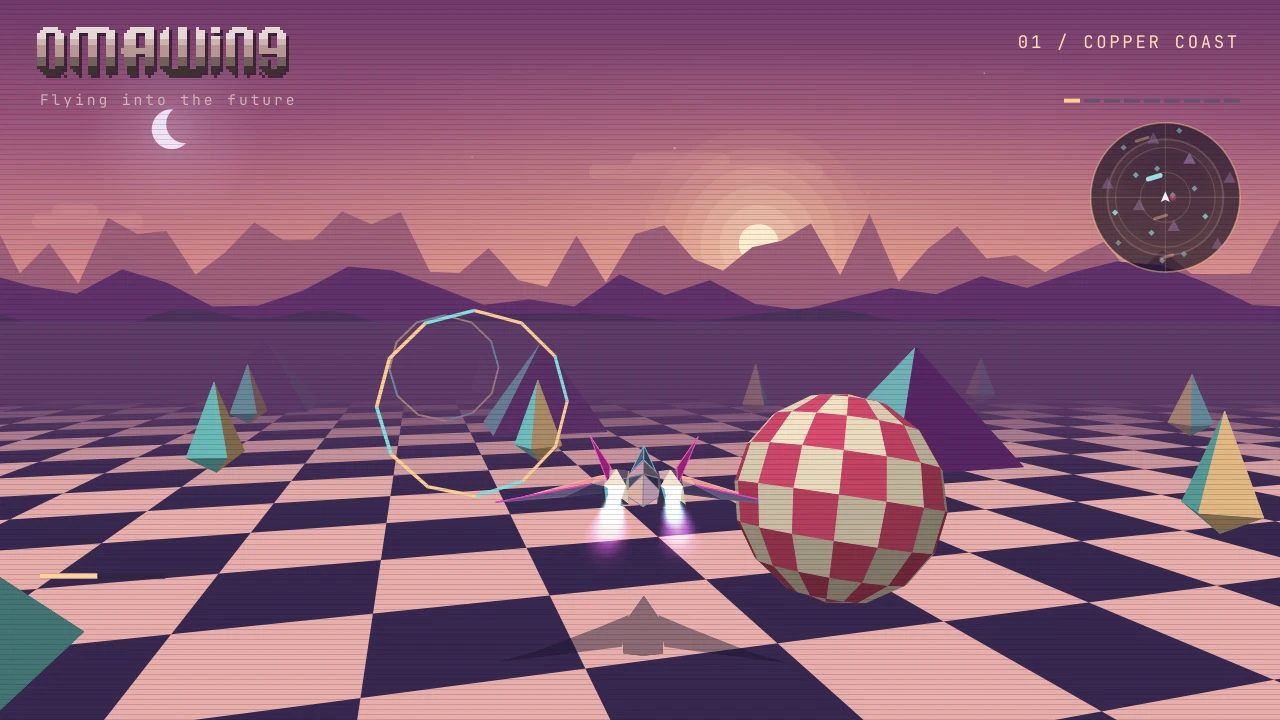
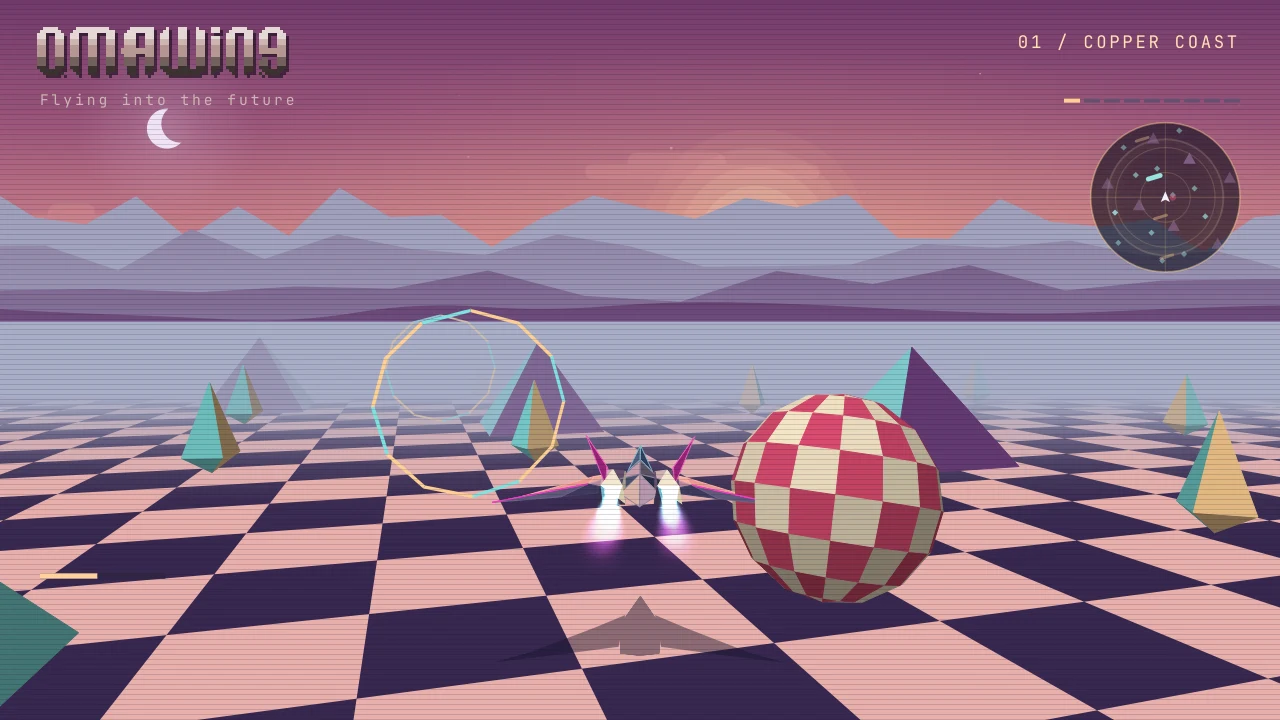
Add layered blue mountain haze and atmospheric depth

diff --git a/src/sky.cpp b/src/sky.cpp
@@ -138,21 +138,21 @@ void Sky::paint(QPainter &p, const View &view) {
     // only the light squares are drawn as polygons over it.
     if (split < view.height) {
         QLinearGradient ground(0, split, 0, view.height);
-        ground.setColorAt(0, rgb(view.palette.floor));
+        ground.setColorAt(0, rgb(view.atmosphere()));
         for (double d = View::Far; d >= 3; d *= 0.8) {
             const Vec c = view.toCamera({view.camera.x + std::sin(view.camera.yaw) * d, 0, view.camera.z + std::cos(view.camera.yaw) * d});
             if (c[2] <= View::Near)
                 continue;
             const double y = view.project(c).y();
             if (y > split && y < view.height)
-                ground.setColorAt((y - split) / (view.height - split), rgb(blend(view.palette.tileB, view.palette.floor, view.fog(c[2]))));
+                ground.setColorAt((y - split) / (view.height - split), rgb(blend(view.palette.tileB, view.atmosphere(), view.fog(c[2]))));
         }
         ground.setColorAt(1, rgb(view.palette.tileB));
         p.fillRect(QRectF(0, split, W, view.height - split), ground);
     }
 }
 
-// Clouds and three ranges of hills, each sliding at its own speed: the
+// Clouds and four ranges of hills, each sliding at its own speed: the
 // nearer a layer, the further it moves when the camera turns or drifts
 // sideways. Each layer wraps once per full turn.
 void Sky::paintBackdrop(QPainter &p, const View &view, double horizon) {
@@ -208,28 +208,32 @@ void Sky::paintBackdrop(QPainter &p, const View &view, double horizon) {
     }
 
     struct Ridge {
-        double turn, slide, sink, spacing, low, high;
+        double turn, slide, sink, spacing, low, high, haze;
         bool rounded;
     };
     static const Ridge ridges[] = {
-        {1.0, 0.4, 0.15, 22, 26, 86, false},   // Far mountains, nearly at infinity.
-        {1.8, 2.2, 0.7, 34, 14, 52, false},
-        {3.0, 6, 1.8, 54, 6, 28, true},        // Rolling hills close by.
+        {1.0, 0.18, 0.08, 38, 48, 115, 0.86, false}, // Distant pale-blue peaks.
+        {1.15, 0.75, 0.3, 55, 32, 82, 0.65, false},
+        {1.35, 2.1, 0.8, 72, 16, 52, 0.36, false},
+        {1.65, 4.2, 1.4, 94, 8, 29, 0.10, true},   // Dark, broad foothills.
     };
-    const Vec colors[] = {blend(blend(view.palette.floor, view.palette.mid, 0.5), view.palette.horizon, 0.45),
-                          blend(view.palette.floor, view.palette.mid, 0.5), blend(view.palette.floor, view.palette.tileB, 0.5)};
-    for (int layer = 0; layer < 3; ++layer) {
+    const Vec rock = blend(view.palette.floor, view.palette.mid, 0.3);
+    const Vec air = view.atmosphere();
+    for (int layer = 0; layer < 4; ++layer) {
         const Ridge &r = ridges[layer];
         const double period = 2 * M_PI * View::Focal * r.turn;
         const int count = std::max(8, int(std::lround(period / r.spacing)));
         const double step = period / count;
         const double scroll = view.camera.yaw * View::Focal * r.turn + view.camera.drift * r.slide;
-        // Flying higher lets the nearer hills sink below the horizon.
+        // Flying higher reveals the valleys. Near hills move more quickly
+        // across the view, while the remote peaks barely shift sideways.
         const double base = horizon + std::max(0.0, view.camera.y - 2) * r.sink;
         const int first = int(std::floor(scroll / step)) - 1, points = int(std::ceil(W / step)) + 3;
         auto peak = [&](int g) {
             const int index = ((g % count) + count) % count;
-            return QPointF(g * step - scroll, base - mix(r.low, r.high, hash(index, 60 + layer)));
+            // Broad shoulders break up the repeated triangular silhouette.
+            const double shape = 0.65 * hash(index, 60 + layer) + 0.35 * hash(index / 3, 80 + layer);
+            return QPointF(g * step - scroll, base - mix(r.low, r.high, shape));
         };
         QPainterPath path(QPointF(first * step - scroll, base + 40));
         path.lineTo(peak(first));
@@ -244,6 +248,11 @@ void Sky::paintBackdrop(QPainter &p, const View &view, double horizon) {
         }
         path.lineTo((first + points) * step - scroll, base + 40);
         path.closeSubpath();
-        p.fillPath(path, rgb(colors[layer]));
+        // Haze pools in each valley, separating overlapping silhouettes.
+        // Far ridges lose contrast and saturation, not just opacity.
+        QLinearGradient mist(0, base - r.high, 0, base);
+        mist.setColorAt(0, rgb(blend(rock, air, r.haze)));
+        mist.setColorAt(1, rgb(blend(rock, air, std::min(0.97, r.haze + 0.18))));
+        p.fillPath(path, mist);
     }
 }

diff --git a/src/worldlayer.cpp b/src/worldlayer.cpp
@@ -79,8 +79,9 @@ void WorldLayer::mesh(const Mesh &geometry, const Vec &at, const Vec &rotation, 
         depth /= indices.size();
         const Vec &source = colors[i % colors.size()];
         const double brightness = options.emissive ? 1 : mix(0.5 + 0.5 * std::max(0.0, dot(n, light())), 1, options.lift);
-        const QColor fill = options.wire ? QColor() : rgb(blend(scaled(source, brightness), m_view->palette.floor, m_view->fog(depth)));
-        const QColor stroke = options.wire ? rgb(blend(source, m_view->palette.floor, m_view->fog(depth)))
+        const double haze = options.ship || options.glow ? 0 : m_view->fog(depth);
+        const QColor fill = options.wire ? QColor() : rgb(blend(scaled(source, brightness), m_view->atmosphere(), haze));
+        const QColor stroke = options.wire ? rgb(blend(source, m_view->atmosphere(), haze))
                             : options.glow ? QColor()
                             : options.stroke.isValid() ? options.stroke : fill;
         face(points, fill, stroke, options.opacity, options.ship, options.glow);
@@ -104,7 +105,7 @@ void WorldLayer::ring(const Ring &r, double spin) {
         double depth = 0;
         for (const Vec &p : points)
             depth += p[2] / 4;
-        face(points, rgb(blend(i % 3 ? m_view->palette.accent : m_view->palette.crystal, m_view->palette.floor, m_view->fog(depth))), QColor(),
+        face(points, rgb(blend(i % 3 ? m_view->palette.accent : m_view->palette.crystal, m_view->atmosphere(), m_view->fog(depth))), QColor(),
              opacity, false);
     }
 }

diff --git a/src/ground.cpp b/src/ground.cpp
@@ -55,7 +55,7 @@ void Ground::paint(QPainter &p, const View &view) {
     for (int i = 0; i < FogSteps; ++i) {
         const double haze = (i + 0.5) / FogSteps;
         p.setPen(Qt::NoPen);
-        p.setBrush(rgb(blend(view.palette.tileA, view.palette.floor, haze)));
+        p.setBrush(rgb(blend(view.palette.tileA, view.atmosphere(), haze)));
         for (const QPolygonF &polygon : tiles[i]) p.drawConvexPolygon(polygon);
     }
     const QPen linePen(rgb(blend(view.palette.accent, view.palette.tileA, 0.4)), 0.55);

diff --git a/src/view.cpp b/src/view.cpp
@@ -158,3 +158,9 @@ QPolygonF View::polygonOf(const std::vector<Vec> &points) const {
 }
 
 double View::fog(double depth) const { return smooth(clampTo((depth - 35) / (Far - 35), 0, 1)); }
+
+Vec View::atmosphere() const {
+    // Keep a trace of each act's sky, but scattered blue light dominates
+    // in the distance. This also blends smoothly during scene transitions.
+    return blend(palette.horizon, draw::hex("#8ab9e2"), 0.68);
+}

diff --git a/src/view.h b/src/view.h
@@ -104,6 +104,8 @@ public:
     QPolygonF polygonOf(const std::vector<Vec> &points) const;
     // 0 up close, rising to 1 at Far.
     double fog(double depth) const;
+    // Shared atmospheric light keeps scenery and the ground joined at infinity.
+    Vec atmosphere() const;
 
 private:
     Palette paletteOf(int act) const;

diff --git a/src/sky.h b/src/sky.h
@@ -1,6 +1,6 @@
 #pragma once
 
-// The sky: gradient, copper bars, stars, sun, clouds, and three ranges of
+// The sky: gradient, copper bars, stars, sun, clouds, and four ranges of
 // hills sliding at different speeds; then the dark squares of the ground,
 // as one gradient down to the bottom of the view.
 

diff --git a/docs/playing.md b/docs/playing.md
@@ -76,6 +76,13 @@ through yet as bars, with the next one ahead in a brighter, thicker line.
 Scans ripple out from the ship in rings, lighting each blip as they pass,
 and the rim and the crystals flash on the music's beat.
 
+## Landscape depth
+
+Four mountain ranges overlap from dark foothills to pale blue distant peaks.
+Each moves at a different speed as the camera travels, with soft haze in the
+valleys. Atmospheric perspective shifts distant scenery and the checkerboard
+toward the same blue haze, reducing contrast while keeping the nearby ship crisp.
+
 ## Scenes
 
 Copper Coast · Vector Garden · Star Run · Omarchy · Neon Mirage · Amber Terminal ·
